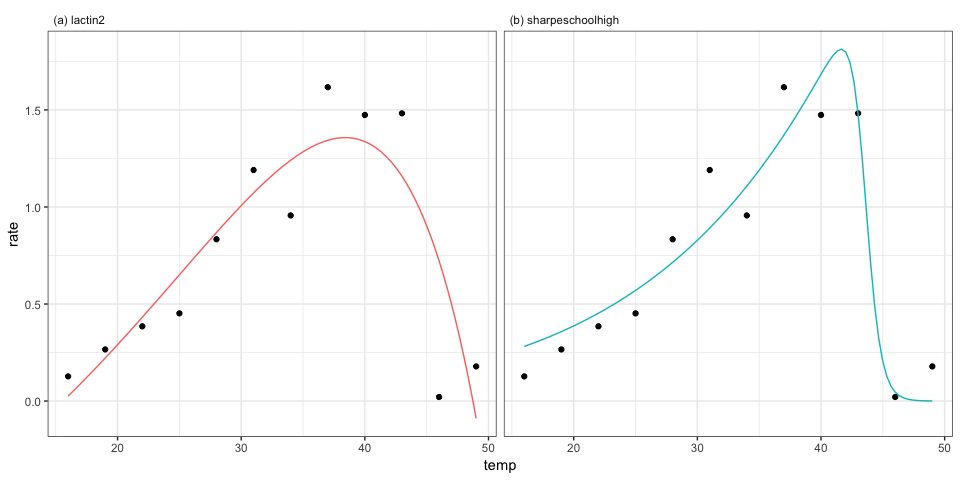
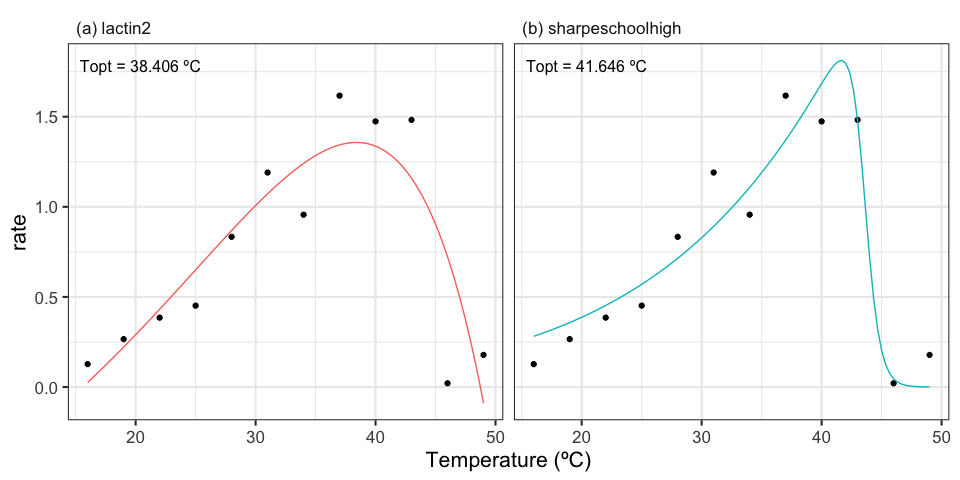
Update README with get_topt example

diff --git a/README.md b/README.md
@@ -34,14 +34,6 @@ We can now load in the data and the packages to fit the TPCs
 # load in packages
 library(purrr)
 library(dplyr)
-#> 
-#> Attaching package: 'dplyr'
-#> The following objects are masked from 'package:stats':
-#> 
-#>     filter, lag
-#> The following objects are masked from 'package:base':
-#> 
-#>     intersect, setdiff, setequal, union
 library(tidyr)
 library(ggplot2)
 library(nls.multstart)
@@ -55,6 +47,11 @@ label_facets <- function(string){
   return(string)
 }
 
+# write function to convert label text size to points
+pts <- function(x){
+  as.numeric(grid::convertX(grid::unit(x, 'points'), 'mm'))
+}
+
 # load in data
 data("Chlorella_TRC")
 
@@ -66,10 +63,11 @@ d_1 <- filter(d, curve_id == 1)
 
 # plot
 ggplot(d_1, aes(temp, rate)) +
-  geom_point()
+  geom_point() +
+  theme_bw(base_size = 16)
 ```
 
-<img src="man/figures/README-quicklook-1.png" width="100%" />
+<img src="man/figures/README-quicklook-1.png" width="50%" style="display: block; margin: auto;" />
 
 We can now run nls.multstart for each function
 
@@ -91,7 +89,8 @@ d_models <- group_by(d_1, curve_id, growth.temp, process, flux) %>%
                                                      supp_errors = 'Y')))
 ```
 
-We can now make predictions of each model and plot them.
+We can now make predictions of each model and plot them. In addition, we
+can estimate optimum temperature for each model using `get_topt()`.
 
 ``` r
 # stack models
@@ -104,15 +103,24 @@ d_preds <- d_stack %>%
   unnest(., output %>% map(augment, newdata = newdata)) %>%
   mutate(., temp = ifelse(model == 'sharpeschoolhigh', K - 273.15, temp))
 
+# estimate topt
+topt <- d_stack %>%
+  mutate(., topt = purrr::map_dbl(output, get_topt)) %>%
+  select(., -c(data, output)) %>%
+  mutate(., topt = ifelse(topt > 200, topt - 273.15, topt))
+
 # plot
 ggplot(d_preds, aes(temp, rate)) +
   geom_point(aes(temp, rate), d_1) +
+  geom_text(aes(-Inf, Inf, label = paste('Topt =', topt, 'ºC')),  hjust = -0.1, vjust = 2.5, topt, size = pts(12)) +
   geom_line(aes(temp, .fitted, col = model)) +
   facet_wrap(~model, labeller = labeller(model = label_facets)) +
-  theme_bw() +
+  theme_bw(base_size = 16) +
   theme(legend.position = 'none',
         strip.text = element_text(hjust = 0),
-        strip.background = element_blank())
+        strip.background = element_blank()) +
+  xlab('Temperature (ºC)') +
+  ylab('rate')
 ```
 
 <img src="man/figures/README-plot predictions-1.png" width="100%" />
